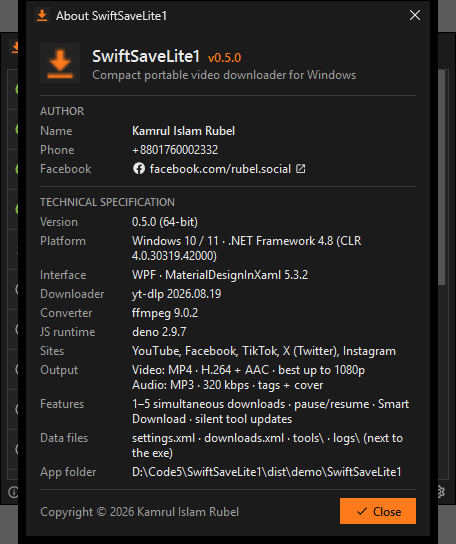
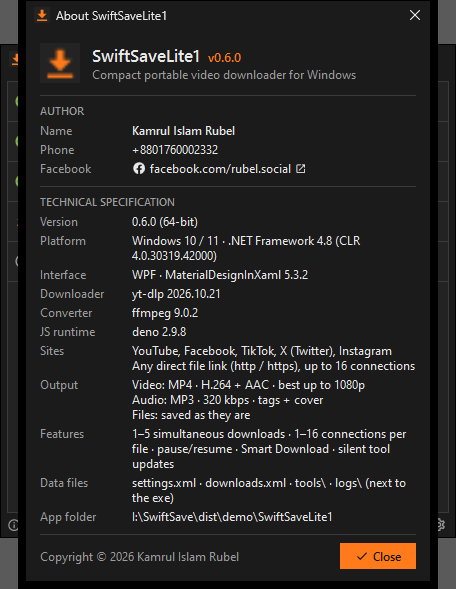
SwiftSaveLite1 0.6.0: user guide and screenshots
- Download link and version 0.6.0.
- Any direct file link is downloaded by the app itself with up to 16
  connections (8 by default), like IDM: new "Direct file links" section
  and screenshot, Smart Download picks up copied file links, web-page
  links are refused with a message.
- Settings: Connections per file (screenshot updated); About shows 0.6.0;
  new empty-list screenshot.
- Output files, privacy, FAQ and version history updated.

diff --git a/README.md b/README.md
@@ -5,17 +5,18 @@
 <h1 align="center">SwiftSaveLite1</h1>
 
 <p align="center">
-  <b>A compact, portable video downloader for Windows — YouTube, Facebook, TikTok, X (Twitter) and Instagram.</b><br />
+  <b>A compact, portable video and file downloader for Windows — YouTube, Facebook, TikTok, X (Twitter), Instagram and any direct file link.</b><br />
   Copy a link, press <kbd>Ctrl</kbd>+<kbd>V</kbd> and get the best version up to 1080p as <b>MP4 (H.264 / AAC)</b> — or a 320 kbps <b>MP3</b>.<br />
+  Any other download link (zip, exe, iso, pdf …) is fetched with up to <b>16 parallel connections</b>, like Internet Download Manager.<br />
   by <b>Kamrul Islam Rubel</b>
 </p>
 
 <p align="center">
-  <a href="https://github.com/rubeldbc/SwiftSaveLite1-Releases/releases/latest/download/SwiftSaveLite1-0.5.0-win-x64.zip"><img alt="Download" src="https://img.shields.io/badge/Download-SwiftSaveLite1--0.5.0--win--x64.zip-FF7A1A?style=for-the-badge" /></a>
+  <a href="https://github.com/rubeldbc/SwiftSaveLite1-Releases/releases/latest/download/SwiftSaveLite1-0.6.0-win-x64.zip"><img alt="Download" src="https://img.shields.io/badge/Download-SwiftSaveLite1--0.6.0--win--x64.zip-FF7A1A?style=for-the-badge" /></a>
 </p>
 
 <p align="center">
-  <img alt="version" src="https://img.shields.io/badge/version-0.5.0-FF7A1A" />
+  <img alt="version" src="https://img.shields.io/badge/version-0.6.0-FF7A1A" />
   <img alt="platform" src="https://img.shields.io/badge/platform-Windows%2010%20%7C%2011-2D2D2D" />
   <img alt="runtime" src="https://img.shields.io/badge/.NET%20Framework-4.8-512BD4" />
   <img alt="ui" src="https://img.shields.io/badge/UI-WPF%20%2B%20MaterialDesignInXaml%205.3.2-2D2D2D" />
@@ -36,6 +37,7 @@
 - [Using SwiftSaveLite1](#using-swiftsavelite1)
   - [Adding videos](#adding-videos)
   - [Supported links](#supported-links)
+  - [Direct file links (like IDM)](#direct-file-links-like-idm)
   - [The download list](#the-download-list)
   - [Mouse, keyboard and menus](#mouse-keyboard-and-menus)
   - [Several downloads at once](#several-downloads-at-once)
@@ -59,8 +61,9 @@
 ## Highlights
 
 - **Five sites** — YouTube, Facebook, TikTok, X (Twitter) and Instagram: videos, reels, shorts and posts, including share links such as `fb.watch`, `vm.tiktok.com` and `t.co`.
-- **Paste and go** — press <kbd>Ctrl</kbd>+<kbd>V</kbd> anywhere in the window. One link, many links, links glued together or mixed with other text: every supported video on the clipboard is queued.
-- **Smart Download** — on by default: every supported link you copy anywhere in Windows (browser, chat, e-mail) is queued automatically.
+- **Any file link, like IDM** — every other download link (`.zip`, `.exe`, `.iso`, `.pdf`, `.mp4` …) is downloaded by the app itself with **8 parallel connections** by default (1–16 in Settings): the file is split into ranges, a connection that finishes takes over half of the biggest range still open, and pause, errors, closing the app or a reboot continue exactly where they stopped. A link that opens a web page is refused with a short message.
+- **Paste and go** — press <kbd>Ctrl</kbd>+<kbd>V</kbd> anywhere in the window. One link, many links, links glued together or mixed with other text: every supported video and file link on the clipboard is queued.
+- **Smart Download** — on by default: every supported video link you copy anywhere in Windows (browser, chat, e-mail) is queued automatically, and so is every copied link that looks like a file (`.zip`, `.exe`, `.pdf` …, or a "download" link).
 - **Full HD first** — on every site the best version up to 1920×1080 is taken (vertical videos: up to 1080×1920).
 - **MP4 video or MP3 audio** — one click on the status-bar icon switches new links between video (MP4 up to **1920×1080**, H.264 + AAC, plays everywhere; VP9 / AV1 / WebM sources are converted) and audio only (**MP3 320 kbps** with title, artist and cover art).
 - **Playlists** — paste or copy a playlist link, or the link of any video playing inside a playlist, and its videos (up to 500) are queued. Copy it again later and only what is missing is added: videos already queued, finished or in the download folder are skipped.
@@ -88,6 +91,8 @@
 | ![Settings](docs/screenshots/readme-settings.png) | ![About](docs/screenshots/readme-about.png) |
 | **How to fix this — opened from a failed download** | **Sign-in cookies set up** |
 | ![How to fix this](docs/screenshots/tutorial-fix-help.png) | ![Cookies set up](docs/screenshots/tutorial-fix-cookies.png) |
+| **Any file link — 8 connections, like IDM** | **Ready: copy any video or file link** |
+| ![File links](docs/screenshots/tutorial-files.png) | ![Empty list](docs/screenshots/tutorial-empty.png) |
 | **First start: tools download with speed and ETA** | **Tray menu** |
 | ![First start](docs/screenshots/phase8-tools-download.png) | ![Tray menu](docs/screenshots/phase9-tray-menu.png) |
 
@@ -103,7 +108,7 @@
 
 ## Download & install
 
-1. Download **[`SwiftSaveLite1-0.5.0-win-x64.zip`](https://github.com/rubeldbc/SwiftSaveLite1-Releases/releases/latest/download/SwiftSaveLite1-0.5.0-win-x64.zip)** — or pick any version on the [Releases](https://github.com/rubeldbc/SwiftSaveLite1-Releases/releases) page.
+1. Download **[`SwiftSaveLite1-0.6.0-win-x64.zip`](https://github.com/rubeldbc/SwiftSaveLite1-Releases/releases/latest/download/SwiftSaveLite1-0.6.0-win-x64.zip)** — or pick any version on the [Releases](https://github.com/rubeldbc/SwiftSaveLite1-Releases/releases) page.
 2. Unzip it into a folder you can write to, e.g. `D:\Apps\SwiftSaveLite1` (not `C:\Program Files`).
 3. Run **`SwiftSaveLite1.exe`**.
 
@@ -116,9 +121,9 @@
 ## Quick start
 
 1. Start `SwiftSaveLite1.exe`. On the first start the status bar shows the tools being downloaded, e.g. *"Downloading ffmpeg… 42 % · 3.2 MB/s · ETA 00:31"* (about 2–3 minutes).
-2. Copy a YouTube, Facebook, TikTok, X or Instagram link in your browser or app.
+2. Copy a YouTube, Facebook, TikTok, X or Instagram link — or the link of any file (zip, exe, iso, pdf …) — in your browser or app.
 3. With Smart Download on (default) it is queued at once — even while the tools are still downloading on the first start, and also a link you copied before starting the app. Otherwise click the SwiftSaveLite1 window and press <kbd>Ctrl</kbd>+<kbd>V</kbd>.
-4. The finished MP4 (or MP3 in audio mode) is in `%USERPROFILE%\Downloads\SwiftSaveLite1`. Double-click the item to play it.
+4. The finished MP4 (or MP3 in audio mode, or the file as it is) is in `%USERPROFILE%\Downloads\SwiftSaveLite1`. Double-click the item to open it.
 
 ## Using SwiftSaveLite1
 
@@ -126,9 +131,9 @@
 
 | Way | How |
 |---|---|
-| **Ctrl+V** | Click the window and press <kbd>Ctrl</kbd>+<kbd>V</kbd>. The empty list reminds you: *"Just copy a video link and press Ctrl+V here"*, with the icons of the supported sites. |
+| **Ctrl+V** | Click the window and press <kbd>Ctrl</kbd>+<kbd>V</kbd>. The empty list reminds you: *"Just copy a video or file link and press Ctrl+V here"*, with the icons of the supported sites. |
 | **Right-click → Paste video link** | On the empty list, on any item and on the status bar. |
-| **Smart Download** | Copy a link anywhere in Windows; it is queued automatically (orange clipboard icon in the status bar while on). A link already on the clipboard when the app starts is queued too, unless Smart Download already queued it in an earlier session. Links copied while the tools are still downloading are queued as soon as they are ready. Copying the same link again later tries again. Text the app copies itself (**Copy link**) is ignored. |
+| **Smart Download** | Copy a link anywhere in Windows; it is queued automatically (orange clipboard icon in the status bar while on). File links are taken only when they look like a file — a known file extension (`.zip`, `.7z`, `.exe`, `.msi`, `.iso`, `.pdf`, `.docx`, `.mp4`, `.mp3`, `.apk` …) or a download link (`download`, `attachment`, `dl=1`, `export=download`) — so copying ordinary web-page links never starts a download. A link already on the clipboard when the app starts is queued too, unless Smart Download already queued it in an earlier session. Links copied while the tools are still downloading are queued as soon as they are ready. Copying the same link again later tries again. Text the app copies itself (**Copy link**) is ignored. |
 | **Paste box** | Turn on **⚙ Settings → Show paste box** to get a link box with a **+** button; <kbd>Enter</kbd> adds the link. Pasting several links into the box queues all of them. |
 
 ### Video or audio
@@ -166,7 +171,23 @@ A post with several videos (an X post, an Instagram carousel) downloads all of t
 
 <p align="center"><img src="docs/screenshots/tutorial-playlist.png" alt="A playlist copied again: 4 videos were already downloaded, the other 15 are queued" width="456" /></p>
 
-Not accepted: profiles and channels (`youtube.com/@name`, `tiktok.com/@user`, `instagram.com/user/`, `x.com/user`), hashtags, sounds, stories, X Spaces, photo-only posts, other sites and look-alike domains (`notyoutube.com`, `notfacebook.com`, `tiktok.com.evil.example`).
+Not accepted on the five video sites: profiles and channels (`youtube.com/@name`, `tiktok.com/@user`, `instagram.com/user/`, `x.com/user`), hashtags, sounds, stories, X Spaces, photo-only posts — these never become file links. Links of every other site (also look-alike domains such as `notyoutube.com`) are **direct file links**, below.
+
+### Direct file links (like IDM)
+
+Every other `http://` / `https://` link — or one starting with `www.` — is a **file link**: SwiftSaveLite1 downloads the file itself (no yt-dlp, no conversion) into the download folder.
+
+<p align="center"><img src="docs/screenshots/tutorial-files.png" alt="File links: an installer, two archives and a PDF done, a disk image downloading over 8 connections with its segment strip" width="491" /></p>
+
+- **Checked first.** The app asks the server for the first byte before the link is added: the item shows the real file name and size at once (*"Queued: linux-6.6.tar.xz (134 MB)"*). A link that opens a **web page** is not added — the status bar says *"This link opens a web page, not a file: …"* (open the page in your browser, start the download there and copy the link of the download itself).
+- **8 connections** (⚙ Settings → *Connections per file*, 1–16). The file is split into ranges, one per connection (at least 1 MB each, so small files use fewer). When a connection finishes its range it takes over the second half of the range with the most bytes left, so all connections stay busy to the end. The detail line shows *"45 % · 7.4 MB/s · ETA 00:03 · 8 connections"* and a thin **segment strip** under the progress bar shows each range filling up. Servers that limit the speed of each connection get much faster: in testing a server capped at 1 MB/s per connection delivered a 48 MB file in 48 s with 1 connection and in 6.5 s with 8. On a line that is already full with one connection more connections do not add speed.
+- **Resumable.** Next to `name.ext.part` the app keeps `name.ext.part.xml` (the link, size, ETag / Last-Modified and how far every range got, saved every 2 seconds). Pause, **Retry** after an error, closing the app and a reboot continue from there; if the file changed on the server it starts over.
+- **Servers without range support** get one connection (and start over after an interruption). A server that ignores ranges half-way is detected and the file is downloaded again with one connection.
+- **Short-lived links:** when the address a download was redirected to expires (signed CDN links such as GitHub release assets), the app asks the original link again and continues.
+- **Names:** the server's name (`Content-Disposition`) first, otherwise the last part of the link (`download.php` → `download.zip` from the file type). A different file with the same name gets `name (2).ext`; a file with the same name **and size** already in the folder counts as already downloaded.
+- **Saved as it is.** The MP4 / MP3 toggle does not apply to file links. Finished files get the same *downloaded from the internet* mark a browser adds, so Windows SmartScreen checks programs before they run.
+- **In the list:** an icon for the kind of file (archive, Windows program, Android app, disk image, PDF, document, image, video, audio …), a type badge (*ZIP*, *EXE*) and a download badge with the server's name as tool tip. A failed file download opens its own **How to fix this** (file not found, access denied, rate limit, network, web page …).
+- File links are independent of the five video sites: a tool update does not pause them, and a server that answers *"too many requests"* only makes that one download wait.
 
 ### The download list
 
@@ -176,6 +197,7 @@ Each row shows a status icon, the title, a detail line, the size, a thumbnail wi
 |---|---|
 | *Queued* | Waiting for its turn |
 | *35 % · 328 KB/s · ETA 01:38* | Downloading (orange progress bar) |
+| *45 % · 7.4 MB/s · ETA 00:03 · 8 connections* | A file link downloading over 8 connections (segment strip under the bar) |
 | *Converting to MP4…* / *Converting to MP3…* | ffmpeg is converting a non-H.264 source / extracting the MP3 |
 | *Paused · 37 %* | Paused; the partial file is kept |
 | *Done* | Finished; double-click to play |
@@ -184,6 +206,7 @@ Each row shows a status icon, the title, a detail line, the size, a thumbnail wi
 | *Instagram requires sign-in for this post …* | The site shows this post only to signed-in users — see [cookies](#sign-in-bot-checks-age-limits-and-cookies) |
 | *No video in this post* | The post has no video (text or photos only) |
 | *File missing* | The finished file was moved or deleted outside the app |
+| *File not found on … (HTTP 404)* | A file link the server does not have (any more) |
 
 **Something went wrong? Click the status icon.** The red icon of a failed download, or the orange hourglass of a download waiting for an automatic retry, opens **How to fix this**: what happened, numbered steps to fix it for exactly this error (sign-in required, age-restricted, bot check, region block, video unavailable, no video in the post, network, stalled, folder, conversion, missing tools, …), **Retry** and **Copy details** (link, error and tool versions to send to the author). For sign-in problems the window also sets up `cookies.txt` — see [cookies](#sign-in-bot-checks-age-limits-and-cookies).
 
@@ -238,13 +261,14 @@ Click **⚙** at the right end of the status bar.
 | Setting | Default | Effect |
 |---|---|---|
 | Download folder | `%USERPROFILE%\Downloads\SwiftSaveLite1` | Where MP4 / MP3 files are saved. 📂 chooses a folder, ↗ opens it in Explorer. The folder is checked for write access. |
-| Smart Download | **On** | Queue YouTube, Facebook, TikTok, X and Instagram links copied anywhere in Windows |
+| Smart Download | **On** | Queue YouTube, Facebook, TikTok, X and Instagram links copied anywhere in Windows, and copied links that look like a file |
 | Show paste box | Off | Show the link box and **+** button above the list |
 | Close to system tray | **On** | The window's **×** hides the app to the tray instead of exiting |
 | Start with Windows | **On** | Starts hidden in the tray when you sign in to Windows (per-user `Run` entry, no admin rights; the first start of a new copy creates it). Switching the entry off in Windows' *Startup apps* also clears this box |
 | Resume downloads at startup | **On** | At app start every queued and paused download runs again. Off: nothing starts by itself — they wait as Paused until **Resume** / **Resume all** |
 | Delete automatically from download list | **On**, keep **5** | Keep only the N most recent finished downloads in the list (0–9999); files are never deleted |
 | Simultaneous downloads | **1** | How many downloads the queue runs at the same time (1–5); applies immediately, also to running downloads |
+| Connections per file | **8** | Parallel connections for one direct file download (1–16), like IDM; used by file downloads that start after the change |
 | Sign-in cookies | not set | Shows which sites `cookies.txt` has cookies for; **Set up…** opens the step-by-step guide with **Choose cookies file…** |
 
 Changes are saved immediately to `settings.xml`.
@@ -274,12 +298,13 @@ On Windows 11 new tray icons appear under the **^** (show hidden icons) arrow; d
 | First start | yt-dlp, ffmpeg (only `ffmpeg.exe` is taken from the zip) and deno are downloaded into `tools\` with progress, speed and ETA. Failed downloads are retried; clicking the status text retries by hand. |
 | A video is queued | YouTube: the title comes from YouTube's oEmbed service, the length from yt-dlp metadata and the thumbnail from `i.ytimg.com`. Other sites: title, length and thumbnail come from yt-dlp metadata; the thumbnail shows a small site badge (and the site icon until the image has loaded). |
 | A download finishes | The file is checked with ffmpeg; anything that is not H.264 + AAC in MP4 (or MP3 for audio items) is converted. Older finished items are trimmed from the list (auto-clean). |
-| A duplicate link arrives | It is ignored with a status message for a few seconds: *already in the list* (same video in the same format) or *already downloaded* (an MP4 / MP3 with that video id is in the download folder). |
+| A duplicate link arrives | It is ignored with a status message for a few seconds: *already in the list* (same video in the same format, or the same file link) or *already downloaded* (an MP4 / MP3 with that video id, or a file with the same name and size, is in the download folder). |
+| A file link is added | The server is asked for the first byte: name, size and type are shown at once; a web page is refused. The download then runs over up to 8 connections (Settings) and saves its progress every 2 seconds. |
 | A playlist is copied again | Only its missing videos are queued, in playlist order: videos already queued, downloading, paused or finished in the list, or already in the download folder, are skipped; failed or cancelled ones are queued again. The status bar says *"Queued 12 videos (playlist has 20) · skipped …"* or *"Playlist up to date — …"*. |
 | A site limits your network (bot check, HTTP 429) | Only that site waits — downloads from the other sites keep going. YouTube: an immediate second attempt with more YouTube player clients, then automatic retries after 2 → 5 → 10 → 20 → 30 → 60 minutes (HTTP 403: 30 s → 2 → 5 min), with a countdown in the list. |
 | Network error | Retries after 30 s → 2 min → 5 min. |
-| ≈ 15 s after start, then every 12 h | Checks for newer yt-dlp / ffmpeg / deno (at most every 6 h). A newer tool is downloaded, running downloads are paused, the file is swapped (rolled back on failure) and downloads resume — no dialogs. |
-| The app is closed or crashes mid-download | The partial file is kept and the item is saved as Paused; it continues on the next start when **Resume downloads at startup** is on. |
+| ≈ 15 s after start, then every 12 h | Checks for newer yt-dlp / ffmpeg / deno (at most every 6 h). A newer tool is downloaded, running video downloads are paused, the file is swapped (rolled back on failure) and downloads resume — no dialogs. File downloads keep running. |
+| The app is closed or crashes mid-download | The partial file is kept and the item is saved as Paused; it continues on the next start when **Resume downloads at startup** is on. File links continue from the saved ranges (at most the last 2 seconds are fetched again). |
 | Every start | The Windows start-up entry is made to match **Start with Windows** — also after the portable folder was moved. |
 | You sign in to Windows | With **Start with Windows** on the app starts hidden in the tray. |
 | The exe is started again from the same folder | The running window comes to the front (also from the tray). |
@@ -293,6 +318,7 @@ On Windows 11 new tray icons appear under the **^** (show hidden icons) arrow; d
 - **Sanitising:** `\ / | :` become `-`, `"` becomes `'`, `< > ? *` and control characters are removed, runs of whitespace collapse to one space, leading and trailing dots/spaces are trimmed. Example: `AC/DC: Live?` → `AC-DC- Live [id].mp4`. Titles in any language (Bangla, Korean, …) are kept.
 - **Partial files** (`.part`) sit next to the output and are deleted on cancel. While an MP3 is being made its files are called `… [id].a.<ext>`, so an MP4 and an MP3 of the same video can download at the same time without touching each other.
 - **Audio source:** the audio track of the post itself (TikTok's separate "music track" is not used, it can be a different recording).
+- **File links** are saved unchanged under the server's file name (or the name in the link), made safe for Windows the same way; `name (2).ext` when a different file already has the name. While downloading the folder holds `name.ext.part` (pre-sized, sparse on NTFS) and `name.ext.part.xml` (the saved ranges); both disappear when the file is finished, cancelled or removed. Finished files carry the *Zone.Identifier* "downloaded from the internet" mark.
 
 ## Sign-in, bot checks, age limits and cookies
 
@@ -360,6 +386,7 @@ Usually changed through **⚙ Settings**. To edit it by hand, exit the app first
   <SmartClipboardFingerprint>…</SmartClipboardFingerprint> <!-- hash of the links Smart Download last queued; written by the app -->
   <StartWithWindows>true</StartWithWindows>             <!-- HKCU\…\CurrentVersion\Run entry "SwiftSaveLite1" -->
   <AutoResumeDownloads>true</AutoResumeDownloads>
+  <ConnectionsPerDownload>8</ConnectionsPerDownload>    <!-- 1..16, file links -->
 </Settings>
 ```
 
@@ -379,8 +406,9 @@ SwiftSaveLite1 has **no telemetry, no accounts and no ads**. It connects only to
 | `github.com`, `api.github.com` | yt-dlp and deno downloads and version checks |
 | `www.gyan.dev` | ffmpeg download and version check (fallback: `github.com/yt-dlp/FFmpeg-Builds`) |
 | `www.facebook.com` | Only when you click the contact link |
+| The server of a file link | Only for file links you add (or copy, with Smart Download on, when they look like a file): one request for the first byte, then the download |
 
-With Smart Download on, the app reads text copied to the clipboard to look for supported video links. Nothing leaves your computer except the resulting requests to those sites.
+With Smart Download on, the app reads text copied to the clipboard to look for supported video links and file links. Nothing leaves your computer except the resulting requests to those sites.
 
 ## Troubleshooting / FAQ
 
@@ -433,6 +461,30 @@ A YouTube **Mix** (`list=RD…`, the endless "Mix – …" lists YouTube makes f
 </details>
 
 <details>
+<summary><b>"This link opens a web page, not a file"</b></summary>
+
+The link leads to a page (for example a download page with a button), not to the file. Open it in your browser, start the download there, then right-click the download button — or the download in the browser's download list — choose **Copy link address** and press <kbd>Ctrl</kbd>+<kbd>V</kbd> in SwiftSaveLite1. Video pages of sites other than the five supported ones are web pages too.
+</details>
+
+<details>
+<summary><b>A file downloads with only 1 connection</b></summary>
+
+The server does not support byte ranges (it always sends the whole file), so the file cannot be split — the log says *"1 connection (no range support)"*. Small files use fewer connections: each range is at least 1 MB, so a 3 MB file uses 3. Check ⚙ Settings → *Connections per file*.
+</details>
+
+<details>
+<summary><b>More connections are not faster</b></summary>
+
+Several connections help when a server limits the speed of each connection. When one connection already fills your internet line, more connections cannot add speed. Some servers allow only one or two connections per user — the app then continues with fewer; lower *Connections per file* if a site keeps answering "too many requests".
+</details>
+
+<details>
+<summary><b>Can I go back to an older version?</b></summary>
+
+Yes, but a `downloads.xml` with file-link items (version 0.6.0 and later) cannot be read by older versions: they start with an empty list. Your files are not affected.
+</details>
+
+<details>
 <summary><b>The app starts when I sign in to Windows</b></summary>
 
 That is **⚙ Settings → Start with Windows** (on by default): the app starts hidden in the tray. Untick it to remove the start-up entry. Turning it off in Windows' *Settings → Apps → Startup* also works — the app then unticks its own box.
@@ -472,6 +524,7 @@ The exe is not code-signed and `yt-dlp.exe` is sometimes flagged generically. Al
 
 | Version | Highlights |
 |---|---|
+| **0.6.0** | **Any direct file link, like IDM**: every other http(s) / `www.` link is downloaded by the app itself with up to 16 parallel connections (default 8, ⚙ Settings → *Connections per file*), work stealing between connections, resumable after pause, errors, exit and reboot (`.part` + `.part.xml`), one connection for servers without range support; web-page links refused with a message; name and size shown at once; file-type icons, type badge, connection count and a segment strip in the list; Smart Download picks up copied links that look like a file; file-specific *How to fix this*; Mark of the Web on finished files |
 | **0.5.0** | **Playlist top-up**: a copied link of a video inside a playlist queues the whole playlist, and copying it again later adds only what is missing (skips videos already queued, finished or in the download folder; YouTube Mix stays one video); **Start with Windows** (default on, hidden in the tray); **Resume downloads at startup** (default on) — a download cut off by closing the app is kept as Paused |
 | **0.4.1** | Click the status icon of a failed (or retry-waiting) download for **How to fix this** — detailed steps per error, Retry, Copy details; guided **cookies.txt** set-up with exporter links, file check and format fix (**Choose cookies file…**) and per-site coverage; ⚙ Settings → Sign-in cookies; TikTok region blocks reported separately from sign-in |
 | **0.4.0** | **Facebook, TikTok, X (Twitter) and Instagram** links — paste, link box and Smart Download; share links (`fb.watch`, `vm.tiktok.com`, `t.co`, …) expanded before queueing; best version up to 1080p on every site; site badge and thumbnails from the posts; per-site error messages (sign-in, region block, no video) and per-site rate-limit waits; MP3 and MP4 of the same video can download at the same time |
@@ -490,12 +543,13 @@ The exe is not code-signed and `yt-dlp.exe` is sometimes flagged generically. Al
 | [MaterialDesignInXamlToolkit](https://github.com/MaterialDesignInXAML/MaterialDesignInXamlToolkit) 5.3.2 | UI styles and icons | MIT |
 | [Microsoft.Xaml.Behaviors.Wpf](https://github.com/microsoft/XamlBehaviorsWpf) | Dependency of MaterialDesignThemes | MIT |
 | [Simple Icons](https://simpleicons.org) | Facebook, TikTok, X and Instagram glyphs (`Styles/SiteIcons.xaml`) | CC0-1.0 (brand marks belong to their owners) |
+| [Material Design Icons](https://pictogrammers.com/library/mdi/) | The download glyph of the file badge (`Styles/SiteIcons.xaml`; the same icon set as the app's PackIcons) | Apache 2.0 |
 
 The tools are not included in the zip; the app downloads them from their official release locations.
 
 ## Disclaimer
 
-SwiftSaveLite1 is meant for downloading videos you are allowed to download — your own uploads, openly licensed videos, or content whose rights holder permits it. Respect the Terms of Service of YouTube, Facebook, TikTok, X and Instagram and the copyright law of your country. The author is not responsible for misuse.
+SwiftSaveLite1 is meant for downloading videos and files you are allowed to download — your own uploads, openly licensed videos and files, or content whose rights holder permits it. Respect the Terms of Service of YouTube, Facebook, TikTok, X and Instagram and the copyright law of your country. The author is not responsible for misuse.
 
 ## Author and contact
 
